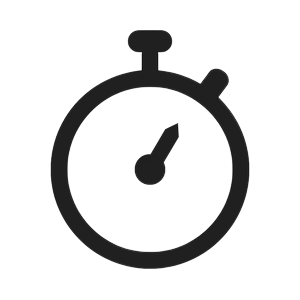
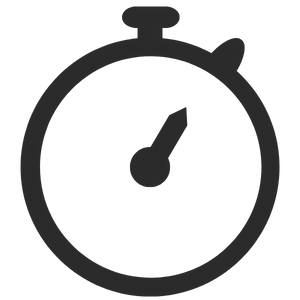
got rid of boxes. Initial touch ups on text layout

diff --git a/app/page.tsx b/app/page.tsx
@@ -6,6 +6,7 @@ import { AnimatePresence, motion } from "framer-motion";
 import { useInView } from "react-intersection-observer";
 import TypewriterComponent from "typewriter-effect";
 import Link from "next/link";
+import { useEffect, useState } from "react";
 
 const HEADER_DESCRIPTION =
   "Developing wetware architecture for the next generation of computing and neuropharmacology.";
@@ -34,12 +35,12 @@ export default function Home() {
   return (
     <AnimatePresence mode='wait'>
       <motion.main
-        className='flex min-h-screen flex-col items-center mx-auto w-full relative bg-gradient-to-b from-white to-[#FECEE5] '
+        className={`font-medium flex min-h-screen flex-col items-center mx-auto w-full relative bg-gradient-to-b from-white to-[#FECEE5] `}
         initial={{ opacity: 1 }}
         exit={{ opacity: 0 }}
         transition={{ duration: 0.3, ease: "easeOut" }}
       >
-        <header className='fixed left-0 top-0 z-10 flex justify-between w-full px-6 py-4 sm:px-16 sm:py-12'>
+        <header className='bg-opacity-95 bg-white rounded-b-3xl fixed left-0 top-0 z-10 flex items-center justify-between w-full px-6 py-4 sm:px-16 sm:py-12'>
           <Link
             href={"/"}
             className='text-4xl font-bold flex flex-col sm:flex-row gap-x-2'
@@ -81,12 +82,15 @@ export default function Home() {
               initial={{ opacity: 0, y: 20 }}
               animate={inView ? { opacity: 1, y: 0 } : {}}
               transition={{ duration: 1 }}
-              className='text-5xl md:text-6xl text-center'
+              className='text-5xl md:text-6xl text-center font-normal'
             >
               <span className='font-bold'>Scalable &amp; Powerful</span> Wetware
               Computing
             </motion.h3>
-            <motion.div ref={ref} className='text-center text-lg md:text-2xl'>
+            <motion.div
+              ref={ref}
+              className='mt-2 px-1 text-center text-lg md:text-2xl'
+            >
               <TypewriterComponent
                 onInit={(typewriter) =>
                   typewriter
@@ -108,36 +112,40 @@ export default function Home() {
           <div className='absolute top-0 w-full h-full'>
             <ParticlesWrapper />
           </div>
+          {/* <hr className='border border-black border-opacity-60 h-[1px] shadow-2xl shadow-black border-solid w-full absolute bottom-0' /> */}
         </div>
 
         <div className='w-full md:p-12 h-min'>
           <motion.section
             id='Wetware'
             ref={wetwareRef}
-            initial={{ x: 100 }}
-            animate={wetwareInView ? { x: 0 } : {}}
-            transition={{ duration: 0.3, ease: "easeOut" }}
-            className='rounded-[5rem] shadow-3xl shadow-[#FD5DA8] bg-[#FD5DA8] bg-opacity-40 px-2 sm:px-4 py-10 w-full text-lg flex flex-col gap-8'
+            // initial={{ x: 100 }}
+            // animate={wetwareInView ? { x: 0 } : {}}
+            // transition={{ duration: 0.3, ease: "easeOut" }}
+            className='px-2 sm:px-4 py-10 w-full text-lg flex flex-col gap-8'
           >
-            <h2 className='text-4xl mb-4 font-bold px-6'>What is Wetware</h2>
+            <div className='flex flex-col px-6 gap-8'>
+              <h2 className='text-5xl font-bold tracking-tighter'>
+                What <span className=''>Is</span> <br />{" "}
+                <span className=''>Wetware?</span>
+              </h2>
+              <p>
+                Wetware computing harnesses the capabilities of biological
+                systems, such as the brain, to perform computational tasks and
+                solve complex problems.
+              </p>
+            </div>
+
+            <div className='relative aspect-square w-40 sm:w-52 mx-auto'>
+              <Image src={"/wetware.png"} fill alt='stopwatch' />
+            </div>
+
             <div className='flex flex-col gap-10 px-6'>
               <div>
-                <span className='text-2xl font-semibold'>
-                  Wetware Computing
-                </span>{" "}
-                / (<span className='italic'>wɛt</span>/
-                <span className='italic'>wɛə</span>) /
-                <p className='indent-20 mt-4'>noun.</p>
-                <p className='indent-28 mt-4'>
-                  Organic structures regarded as analogous to, or in contrast
-                  with, computer systems, esp. the brain.
-                </p>
-              </div>
-              <div>
-                <h1 className='text-2xl font-semibold'>
-                  Unlocking the Power of Wetware with Pink Inference
+                <h1 className='text-3xl font-bold'>
+                  Unlocking the Power of Wetware
                 </h1>
-                <div className='ml-5 mt-4 flex flex-col gap-4'>
+                <div className='mt-4 flex flex-col gap-4'>
                   <p>
                     Neurons, with over ~525 million years of evolution, are
                     advanced problem solvers. Yet, modern AIs consume the energy
@@ -156,9 +164,6 @@ export default function Home() {
                 </div>
               </div>
             </div>
-            <div className='relative aspect-square w-40 sm:w-52 mx-auto'>
-              <Image src={"/wetware.png"} fill alt='stopwatch' />
-            </div>
           </motion.section>
         </div>
 
@@ -168,24 +173,26 @@ export default function Home() {
           <motion.section
             id='ProblemStatement'
             ref={innovativeSolutionsRef}
-            initial={{ x: -100 }}
-            animate={innovativeSolutionsInView ? { x: 0 } : {}}
-            transition={{ duration: 0.3, ease: "easeOut" }}
-            className='rounded-[5rem] shadow-3xl shadow-[#00bcd4] bg-[#00bcd4] px-2 sm:px-4 py-10 w-full text-lg flex flex-col gap-8'
+            // initial={{ x: -100 }}
+            // animate={innovativeSolutionsInView ? { x: 0 } : {}}
+            // transition={{ duration: 0.3, ease: "easeOut" }}
+            className='px-2 sm:px-4 py-10 w-full text-lg flex flex-col gap-8'
           >
-            <h2 className='text-4xl mb-4 font-bold px-6'>
-              Innovative Solutions for the Future
-            </h2>
-            <p className='px-6'>
-              Current approaches to wetware systems focus on electrical
-              interfaces with metallic electrodes. However, these designs are{" "}
-              <strong>inflexible and challenging</strong> to scale. We are
-              designing wetware computing to be{" "}
-              <strong>scalable and powerful</strong>.
-            </p>
+            <div className='flex flex-col px-6 gap-8'>
+              <h2 className='text-5xl font-bold tracking-tighter'>
+                Innovative Solutions for the Future
+              </h2>
+              <p>
+                Current approaches to wetware systems focus on electrical
+                interfaces with metallic electrodes. However, these designs are{" "}
+                <strong>inflexible and challenging</strong> to scale. We are
+                designing wetware computing to be{" "}
+                <strong>scalable and powerful</strong>.
+              </p>
+            </div>
             <div className='flex flex-col lg:flex-row justify-center items-start gap-6 rounded-3xl bord border-sold p-4'>
               <div className='flex flex-col gap-2 lg:w-1/2'>
-                <h1 className='text-2xl font-semibold'>Current Models</h1>
+                <h1 className='text-3xl font-bold'>Current Models</h1>
                 {/* <ul>
                 <li>Inflexible and costly</li>
                 <li>Significant scalability issues</li>
@@ -203,7 +210,7 @@ export default function Home() {
                 </p>
               </div>
               <div className='flex flex-col gap-2 lg:w-1/2'>
-                <h1 className='text-2xl font-semibold'>Our Solution</h1>
+                <h1 className='text-3xl font-bold'>Our Solution</h1>
                 {/* <ul>
                 <li>Yields the potential for less training time and energy consumption</li>
                 <li>Faster testing of neurological drugs</li>
@@ -225,7 +232,7 @@ export default function Home() {
               <div className='flex flex-col justify-center items-center'>
                 <div className='relative aspect-square w-40 sm:w-52'>
                   <Image
-                    src={"/lab_tubes.png"}
+                    src={"/lab_tubes3.png"}
                     width={200}
                     height={200}
                     alt='stopwatch'
@@ -251,24 +258,26 @@ export default function Home() {
 
         <div className={`h-[30vh] w-full`} />
 
-        <div className='b-[#2A2B2A] text-white w-full md:p-12'>
+        <div className='w-full md:p-12'>
           <motion.section
             ref={excitingDiscoveriesRef}
-            initial={{ x: 100 }}
-            animate={excitingDiscoveriesInView ? { x: 0 } : {}}
-            transition={{ duration: 0.3, ease: "easeOut" }}
-            className='rounded-[5rem] shadow-3xl bg-[#2A2B2A] shadow-[#2A2B2A] w-full p-10 text-lg flex flex-col gap-8'
+            // initial={{ x: 100 }}
+            // animate={excitingDiscoveriesInView ? { x: 0 } : {}}
+            // transition={{ duration: 0.3, ease: "easeOut" }}
+            className='px-2 sm:px-4 py-10 w-full text-lg flex flex-col gap-8'
           >
-            <h2 className='text-4xl font-bold'>
-              Powerful Features
-              <p className='mb-4 ml-8'>Exciting Discoveries</p>
-            </h2>
-            <p>
-              We&apos;ve been able to sidestep these flaws by developing a
-              system that skips the electrode interface altogether. We are
-              making wetware a computational reality.
-            </p>
-            <ul className='text-xl list-disc'>
+            <div className='flex flex-col px-6 gap-8'>
+              <h2 className='text-5xl font-bold tracking-tighter'>
+                Powerful Features
+                <p className='mb-4 ml-8'>Exciting Discoveries</p>
+              </h2>
+              <p>
+                We&apos;ve been able to sidestep these flaws by developing a
+                system that skips the electrode interface altogether. We are
+                making wetware a computational reality.
+              </p>
+            </div>
+            <ul className='text-xl list-disc px-6'>
               <li>Versatile</li>
               <li>Scalable</li>
               <li>
@@ -284,7 +293,7 @@ export default function Home() {
               <div className='flex flex-col justify-center items-center'>
                 <div className='relative aspect-square w-40 sm:w-52'>
                   <Image
-                    src={"/stopwatch300x300white.png"}
+                    src={"/stopwatch_300x300_nobg.png"}
                     fill
                     alt='stopwatch'
                   />
@@ -295,7 +304,7 @@ export default function Home() {
               <div className='flex flex-col justify-center items-center'>
                 <div className='relative aspect-square w-40 sm:w-52'>
                   <Image
-                    className='opacity-95 invert'
+                    className='opacity-[.84]'
                     src={"/resources.png"}
                     width={200}
                     height={200}

diff --git a/app/layout.tsx b/app/layout.tsx
@@ -1,32 +1,38 @@
-import './globals.css'
-import { Play } from 'next/font/google'
-import SmoothScroll from '@/utilities/SmoothScroll'
-import Head from 'next/head'
+import "./globals.css";
+import { Play, Noto_Sans } from "next/font/google";
+import SmoothScroll from "@/utilities/SmoothScroll";
+import Head from "next/head";
 
-const playFont = Play({
-  weight: ['400', '700'],
-  preload:false,
-})
+// const playFont = Play({
+//   weight: ['400', '700'],
+//   preload:false,
+// })
+
+const notoFont = Noto_Sans({
+  weight: ["100", "200", "300", "400", "500", "600", "700", "800", "900"],
+  preload: false,
+});
 
 export const metadata = {
-  title: 'Pink Inference',
-  description: 'Explore the Future of AI and Robotics with Pink Inference. We are developing wetware architecture for the next generation of computing and neuropharmacology.',
-}
+  title: "Pink Inference",
+  description:
+    "Explore the Future of AI and Robotics with Pink Inference. We are developing wetware architecture for the next generation of computing and neuropharmacology.",
+};
 
 export default function RootLayout({
   children,
 }: {
-  children: React.ReactNode
+  children: React.ReactNode;
 }) {
   return (
-    <html lang="en">
+    <html lang='en'>
       <Head>
-        <meta name="viewport" content="width=device-width, initial-scale=1.0" />
+        <meta name='viewport' content='width=device-width, initial-scale=1.0' />
       </Head>
-      <body className={playFont.className}>
+      <body className={notoFont.className}>
         {children}
         <SmoothScroll />
       </body>
     </html>
-  )
+  );
 }
